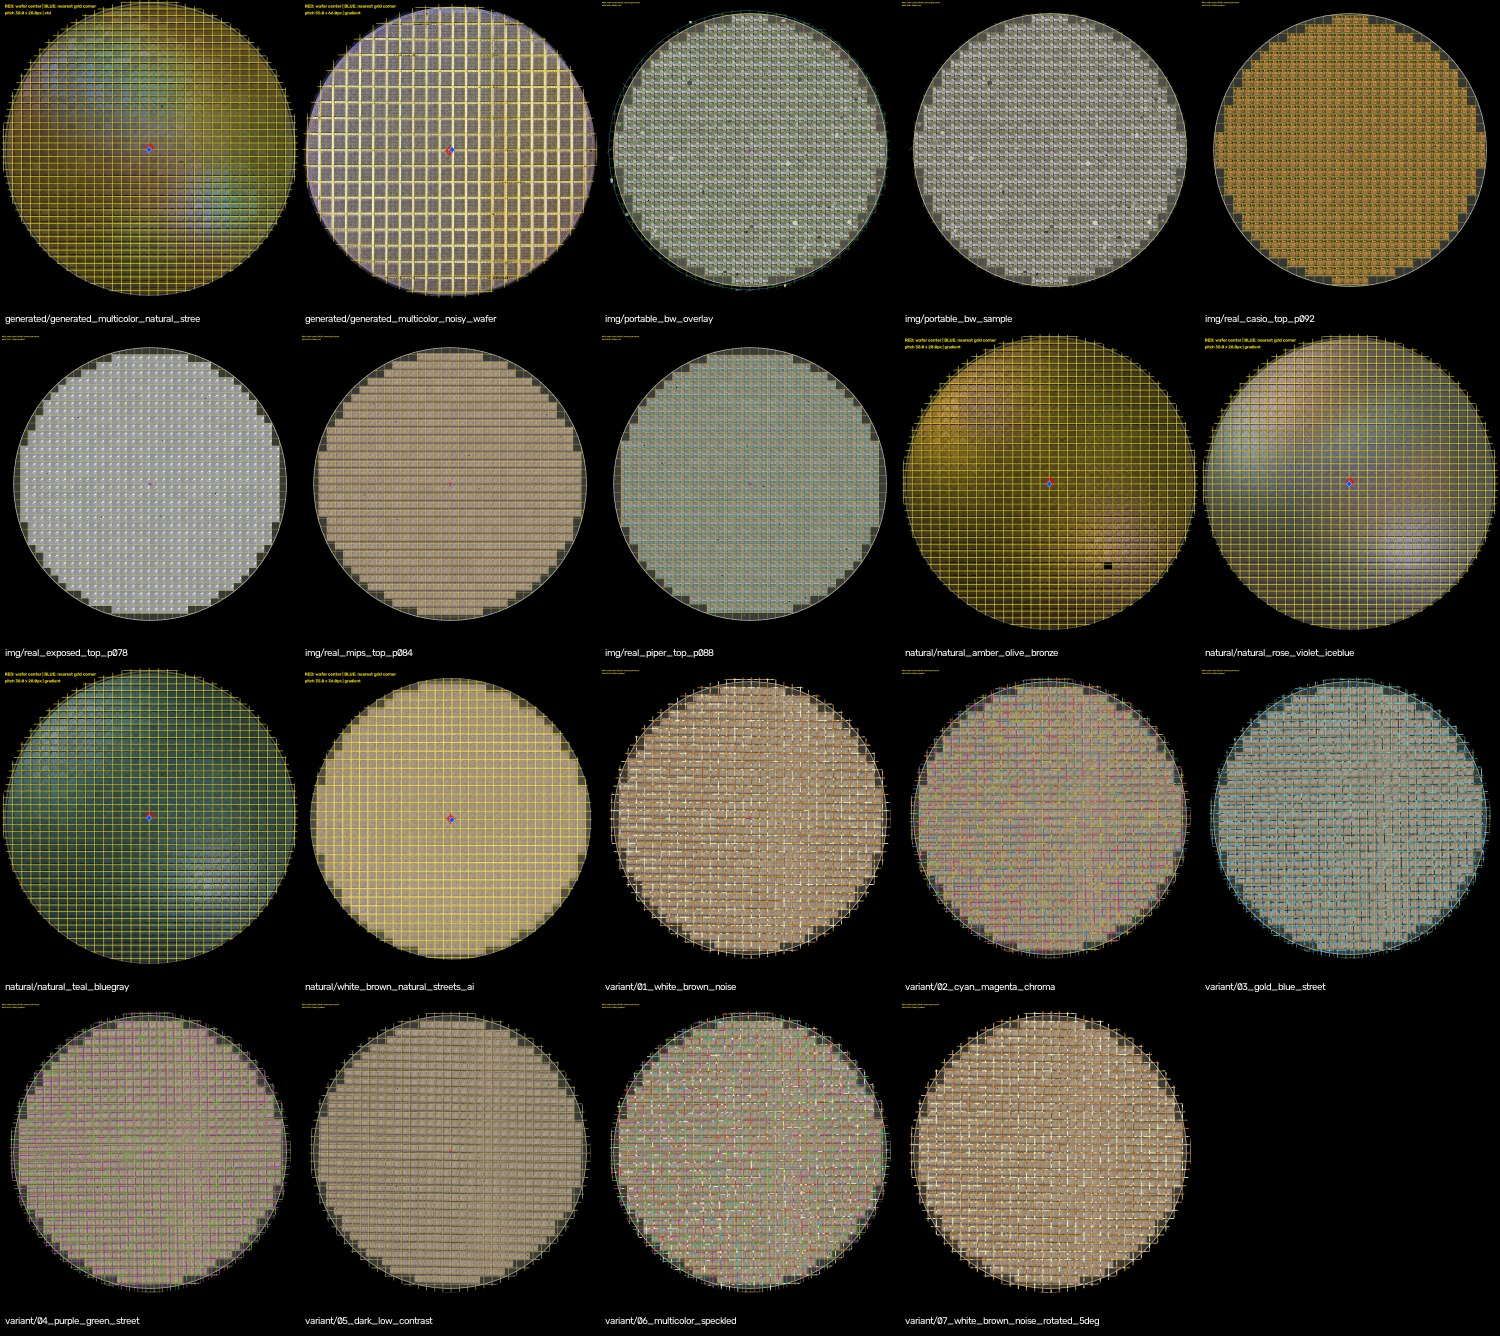
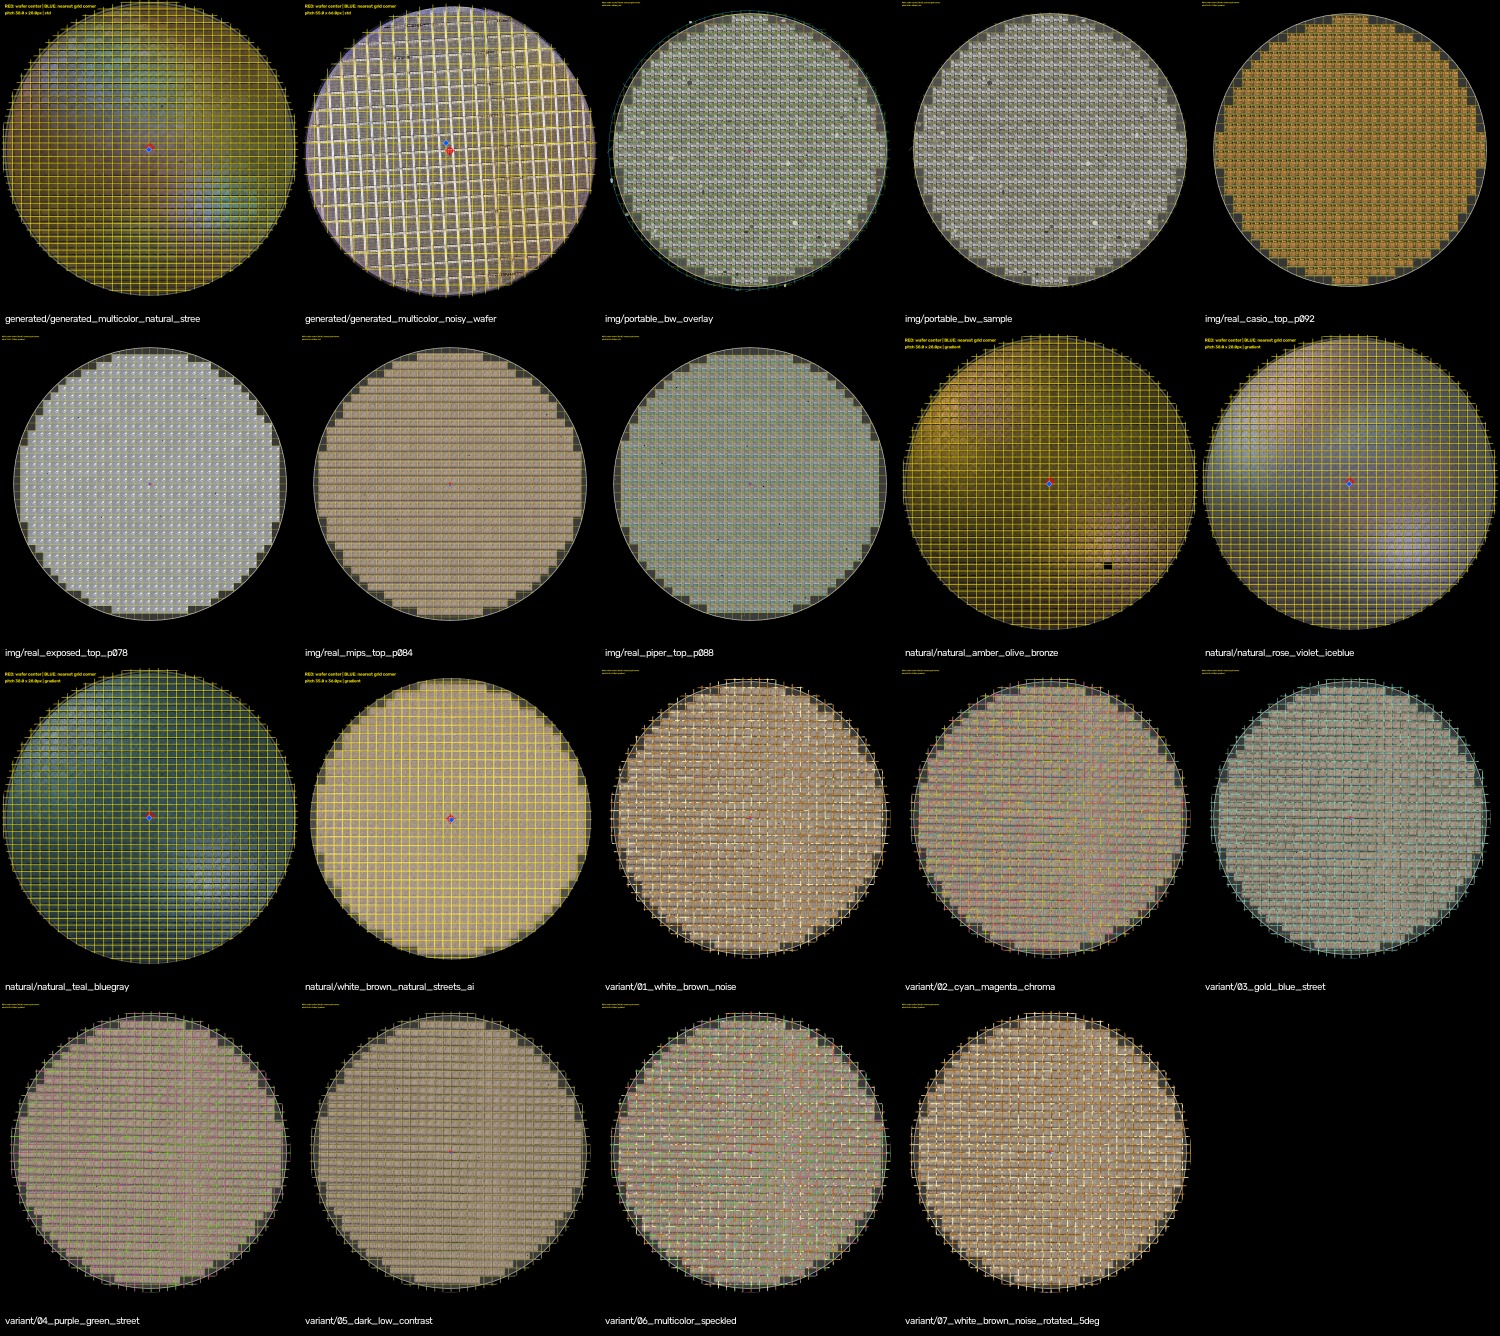
Organize diagnostics by source folder

diff --git a/make_all_diagnostics.py b/make_all_diagnostics.py
@@ -1,7 +1,7 @@
 """Render grid, wafer centre and nearest reference corner for every fixture.
 
-The source images are never edited.  Outputs are written under
-``TestAssets/AllDiagnostics`` with their source group in the filename.
+The source images are never edited.  Every output is written to its own folder
+under ``TestAssets/AllDiagnostics/<group>/<source-stem>/diagnostic.png``.
 """
 
 from __future__ import annotations
@@ -25,7 +25,9 @@ def _sources() -> Iterable[tuple[str, Path, ColorRobustConfig]]:
     # in each source image's native pixel system.
     base = ColorRobustConfig(min_pitch=25, max_pitch=160, angle_align="none")
     for path in sorted((ROOT / "Img").glob("*.png")):
-        yield "img", path, base
+        # Match the real-image regression bounds: a wide unconstrained search
+        # can choose a repeated feature inside a die as a false half-pitch.
+        yield "img", path, ColorRobustConfig(min_pitch=60, max_pitch=110)
     for path in sorted((ROOT / "TestAssets" / "ColorVariants").glob("*")):
         if path.suffix.lower() in {".jpg", ".jpeg", ".png"} and "_overlay" not in path.stem:
             align = "robust" if "rotated" in path.stem else "none"
@@ -81,13 +83,16 @@ def main() -> None:
     OUT_DIR.mkdir(parents=True, exist_ok=True)
     manifest = ["# All diagnostic renders", "",
                 "Yellow: detected grid; red: wafer centre; blue: nearest grid reference corner.", "",
-                "| Source | Method | Pitch (px) | Centre | Nearest corner | Result |",
+                "| Source | Method | Pitch (px) | Centre | Nearest corner | Result folder |",
                 "| --- | --- | --- | --- | --- | --- |"]
     failures: list[str] = []
     for group, source, config in _sources():
-        result_name = f"{group}__{source.stem}__diagnostic.png"
-        output = OUT_DIR / result_name
-        if output.exists():
+        result_dir = OUT_DIR / group / source.stem
+        result_name = "diagnostic.png"
+        output = result_dir / result_name
+        # Re-render real inputs when the script is run: their diagnostic
+        # settings are deliberately tied to the maintained real-image bounds.
+        if output.exists() and group != "img":
             # Regenerate the small metadata record, but preserve the existing
             # full-resolution render on resumptions.
             try:
@@ -96,7 +101,7 @@ def main() -> None:
                     f"| `{group}/{source.name}` | {info['grid']['selected_method']} | "
                     f"{die_map.pitch_x:.1f} x {die_map.pitch_y:.1f} | "
                     f"({die_map.wafer_cx}, {die_map.wafer_cy}) | "
-                    f"({die_map.x0}, {die_map.y0}) | [{result_name}]({result_name}) |"
+                    f"({die_map.x0}, {die_map.y0}) | [{group}/{source.stem}]({group}/{source.stem}) |"
                 )
                 print(f"INDEX {group}/{source.name}: existing result")
                 continue
@@ -106,12 +111,13 @@ def main() -> None:
                 continue
         try:
             rendered, die_map, info = _render(source, config)
+            result_dir.mkdir(parents=True, exist_ok=True)
             assert cv2.imwrite(str(output), rendered), output
             manifest.append(
                 f"| `{group}/{source.name}` | {info['grid']['selected_method']} | "
                 f"{die_map.pitch_x:.1f} x {die_map.pitch_y:.1f} | "
                 f"({die_map.wafer_cx}, {die_map.wafer_cy}) | "
-                f"({die_map.x0}, {die_map.y0}) | [{result_name}]({result_name}) |"
+                f"({die_map.x0}, {die_map.y0}) | [{group}/{source.stem}]({group}/{source.stem}) |"
             )
             print(f"OK  {group}/{source.name}: {die_map.pitch_x:.1f} x {die_map.pitch_y:.1f}")
         except Exception as exc:

diff --git a/make_all_diagnostics_contact_sheet.py b/make_all_diagnostics_contact_sheet.py
@@ -12,7 +12,7 @@ OUTPUT = SOURCE / "all_diagnostics_contact_sheet.jpg"
 
 
 def main() -> None:
-    files = sorted(SOURCE.glob("*__diagnostic.png"))
+    files = sorted(SOURCE.glob("*/*/diagnostic.png"))
     assert len(files) == 19, f"Expected 19 diagnostic files, got {len(files)}"
     tile_w, tile_h, label_h, cols = 300, 300, 34, 5
     rows = int(np.ceil(len(files) / cols))
@@ -24,7 +24,7 @@ def main() -> None:
         row, col = divmod(index, cols)
         y, x = row * (tile_h + label_h), col * tile_w
         sheet[y:y + tile_h, x:x + tile_w] = thumb
-        label = path.name.replace("__diagnostic.png", "").replace("__", "/")
+        label = f"{path.parent.parent.name}/{path.parent.name}"
         cv2.putText(sheet, label[:44], (x + 5, y + tile_h + 22),
                     cv2.FONT_HERSHEY_SIMPLEX, 0.34, (255, 255, 255), 1, cv2.LINE_AA)
     assert cv2.imwrite(str(OUTPUT), sheet, [cv2.IMWRITE_JPEG_QUALITY, 92]), OUTPUT

diff --git a/TestAssets/AllDiagnostics/README.md b/TestAssets/AllDiagnostics/README.md
@@ -2,24 +2,24 @@
 
 Yellow: detected grid; red: wafer centre; blue: nearest grid reference corner.
 
-| Source | Method | Pitch (px) | Centre | Nearest corner | Result |
+| Source | Method | Pitch (px) | Centre | Nearest corner | Result folder |
 | --- | --- | --- | --- | --- | --- |
-| `img/portable_bw_overlay.png` | std | 90.0 x 90.0 | (1498, 1507) | (1499, 1498) | [img__portable_bw_overlay__diagnostic.png](img__portable_bw_overlay__diagnostic.png) |
-| `img/portable_bw_sample.png` | gradient | 90.0 x 90.0 | (1502, 1503) | (1543, 1485) | [img__portable_bw_sample__diagnostic.png](img__portable_bw_sample__diagnostic.png) |
-| `img/real_casio_top_p092.png` | gradient | 92.0 x 92.0 | (1536, 1536) | (1532, 1531) | [img__real_casio_top_p092__diagnostic.png](img__real_casio_top_p092__diagnostic.png) |
-| `img/real_exposed_top_p078.png` | gradient | 78.0 x 39.0 | (1536, 1536) | (1526, 1531) | [img__real_exposed_top_p078__diagnostic.png](img__real_exposed_top_p078__diagnostic.png) |
-| `img/real_mips_top_p084.png` | gradient | 84.0 x 84.0 | (1536, 1536) | (1548, 1545) | [img__real_mips_top_p084__diagnostic.png](img__real_mips_top_p084__diagnostic.png) |
-| `img/real_piper_top_p088.png` | std | 88.0 x 88.0 | (1536, 1536) | (1542, 1557) | [img__real_piper_top_p088__diagnostic.png](img__real_piper_top_p088__diagnostic.png) |
-| `variant/01_white_brown_noise.jpg` | gradient | 84.0 x 84.0 | (1537, 1534) | (1545, 1548) | [variant__01_white_brown_noise__diagnostic.png](variant__01_white_brown_noise__diagnostic.png) |
-| `variant/02_cyan_magenta_chroma.jpg` | gradient | 84.0 x 84.0 | (1537, 1534) | (1545, 1548) | [variant__02_cyan_magenta_chroma__diagnostic.png](variant__02_cyan_magenta_chroma__diagnostic.png) |
-| `variant/03_gold_blue_street.jpg` | gradient | 84.0 x 84.0 | (1537, 1534) | (1545, 1548) | [variant__03_gold_blue_street__diagnostic.png](variant__03_gold_blue_street__diagnostic.png) |
-| `variant/04_purple_green_street.jpg` | gradient | 84.0 x 84.0 | (1537, 1534) | (1545, 1548) | [variant__04_purple_green_street__diagnostic.png](variant__04_purple_green_street__diagnostic.png) |
-| `variant/05_dark_low_contrast.jpg` | gradient | 84.0 x 84.0 | (1537, 1534) | (1545, 1548) | [variant__05_dark_low_contrast__diagnostic.png](variant__05_dark_low_contrast__diagnostic.png) |
-| `variant/06_multicolor_speckled.jpg` | gradient | 84.0 x 84.0 | (1537, 1534) | (1545, 1548) | [variant__06_multicolor_speckled__diagnostic.png](variant__06_multicolor_speckled__diagnostic.png) |
-| `variant/07_white_brown_noise_rotated_5deg.jpg` | gradient | 84.0 x 84.0 | (1537, 1534) | (1543, 1547) | [variant__07_white_brown_noise_rotated_5deg__diagnostic.png](variant__07_white_brown_noise_rotated_5deg__diagnostic.png) |
-| `natural/natural_amber_olive_bronze.png` | gradient | 38.0 x 28.0 | (627, 618) | (623, 626) | [natural__natural_amber_olive_bronze__diagnostic.png](natural__natural_amber_olive_bronze__diagnostic.png) |
-| `natural/natural_rose_violet_iceblue.png` | gradient | 38.0 x 28.0 | (627, 618) | (623, 626) | [natural__natural_rose_violet_iceblue__diagnostic.png](natural__natural_rose_violet_iceblue__diagnostic.png) |
-| `natural/natural_teal_bluegray.png` | gradient | 38.0 x 28.0 | (627, 618) | (623, 626) | [natural__natural_teal_bluegray__diagnostic.png](natural__natural_teal_bluegray__diagnostic.png) |
-| `natural/white_brown_natural_streets_ai.png` | gradient | 35.0 x 36.0 | (630, 630) | (633, 634) | [natural__white_brown_natural_streets_ai__diagnostic.png](natural__white_brown_natural_streets_ai__diagnostic.png) |
-| `generated/generated_multicolor_noisy_wafer.png` | std | 55.0 x 66.0 | (626, 630) | (610, 597) | [generated__generated_multicolor_noisy_wafer__diagnostic.png](generated__generated_multicolor_noisy_wafer__diagnostic.png) |
-| `generated/generated_multicolor_natural_streets_v2.png` | std | 38.0 x 28.0 | (626, 617) | (622, 625) | [generated__generated_multicolor_natural_streets_v2__diagnostic.png](generated__generated_multicolor_natural_streets_v2__diagnostic.png) |
+| `img/portable_bw_overlay.png` | std | 90.0 x 90.0 | (1498, 1506) | (1499, 1499) | [img/portable_bw_overlay](img/portable_bw_overlay) |
+| `img/portable_bw_sample.png` | std | 90.0 x 90.0 | (1501, 1503) | (1499, 1499) | [img/portable_bw_sample](img/portable_bw_sample) |
+| `img/real_casio_top_p092.png` | gradient | 92.0 x 92.0 | (1536, 1536) | (1536, 1538) | [img/real_casio_top_p092](img/real_casio_top_p092) |
+| `img/real_exposed_top_p078.png` | gradient | 78.0 x 78.0 | (1536, 1536) | (1532, 1535) | [img/real_exposed_top_p078](img/real_exposed_top_p078) |
+| `img/real_mips_top_p084.png` | std | 84.0 x 84.0 | (1536, 1536) | (1535, 1553) | [img/real_mips_top_p084](img/real_mips_top_p084) |
+| `img/real_piper_top_p088.png` | std | 88.0 x 88.0 | (1536, 1536) | (1535, 1535) | [img/real_piper_top_p088](img/real_piper_top_p088) |
+| `variant/01_white_brown_noise.jpg` | gradient | 84.0 x 84.0 | (1537, 1534) | (1545, 1548) | [variant/01_white_brown_noise](variant/01_white_brown_noise) |
+| `variant/02_cyan_magenta_chroma.jpg` | gradient | 84.0 x 84.0 | (1537, 1534) | (1545, 1548) | [variant/02_cyan_magenta_chroma](variant/02_cyan_magenta_chroma) |
+| `variant/03_gold_blue_street.jpg` | gradient | 84.0 x 84.0 | (1537, 1534) | (1545, 1548) | [variant/03_gold_blue_street](variant/03_gold_blue_street) |
+| `variant/04_purple_green_street.jpg` | gradient | 84.0 x 84.0 | (1537, 1534) | (1545, 1548) | [variant/04_purple_green_street](variant/04_purple_green_street) |
+| `variant/05_dark_low_contrast.jpg` | gradient | 84.0 x 84.0 | (1537, 1534) | (1545, 1548) | [variant/05_dark_low_contrast](variant/05_dark_low_contrast) |
+| `variant/06_multicolor_speckled.jpg` | gradient | 84.0 x 84.0 | (1537, 1534) | (1545, 1548) | [variant/06_multicolor_speckled](variant/06_multicolor_speckled) |
+| `variant/07_white_brown_noise_rotated_5deg.jpg` | gradient | 84.0 x 84.0 | (1537, 1534) | (1543, 1547) | [variant/07_white_brown_noise_rotated_5deg](variant/07_white_brown_noise_rotated_5deg) |
+| `natural/natural_amber_olive_bronze.png` | gradient | 38.0 x 28.0 | (627, 618) | (623, 626) | [natural/natural_amber_olive_bronze](natural/natural_amber_olive_bronze) |
+| `natural/natural_rose_violet_iceblue.png` | gradient | 38.0 x 28.0 | (627, 618) | (623, 626) | [natural/natural_rose_violet_iceblue](natural/natural_rose_violet_iceblue) |
+| `natural/natural_teal_bluegray.png` | gradient | 38.0 x 28.0 | (627, 618) | (623, 626) | [natural/natural_teal_bluegray](natural/natural_teal_bluegray) |
+| `natural/white_brown_natural_streets_ai.png` | gradient | 35.0 x 36.0 | (630, 630) | (633, 634) | [natural/white_brown_natural_streets_ai](natural/white_brown_natural_streets_ai) |
+| `generated/generated_multicolor_noisy_wafer.png` | std | 55.0 x 66.0 | (626, 630) | (610, 597) | [generated/generated_multicolor_noisy_wafer](generated/generated_multicolor_noisy_wafer) |
+| `generated/generated_multicolor_natural_streets_v2.png` | std | 38.0 x 28.0 | (626, 617) | (622, 625) | [generated/generated_multicolor_natural_streets_v2](generated/generated_multicolor_natural_streets_v2) |
